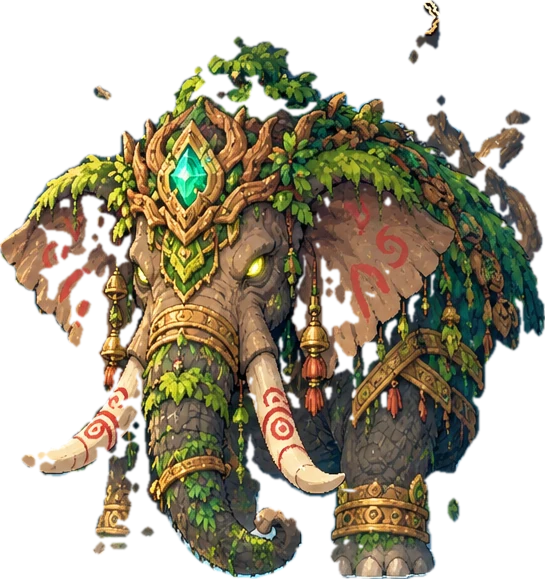
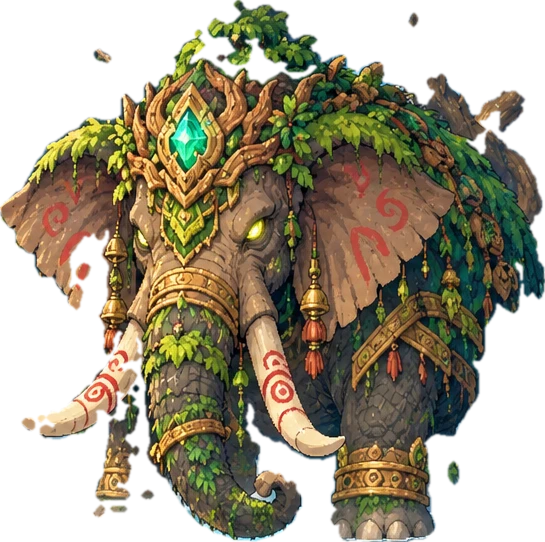
Legenda: no smears around the bosses
The backdrop under each boss, and the places the live HUD covers, were filled with a flat blur,
which showed wherever the boss cut-out had a gap. They are now filled with new scenery built
from the rest of the painting (shift-map inpainting, blended with Poisson cloning, never copying
the title plate or minimap). The boss masks are closed and filled so the sprite shows the
painting's own pixels, and fragments of the painted boss bar, name and compass are removed.
layout.ts is regenerated for the cleaned boss boxes.

diff --git a/live/web/src/lib/games/legenda/layout.ts b/live/web/src/lib/games/legenda/layout.ts
@@ -25,9 +25,9 @@ const box = (x: number, y: number, w: number, h: number): Box => ({ x, y, w, h }
 
 // The order is chini, lupar, larut, kancil, ledang.
 export const FIELDS: Field[] = [
-	{ ar: 1536 / 864, boss: box(0.6439, 0.0984, 0.2943, 0.5289), minA: box(0.1204, 0.5347, 0.0658, 0.0984), minB: box(0.3092, 0.7269, 0.0618, 0.1053), hero: { x: 0.2669, y: 0.7141 }, hearts: box(0.1628, 0.0208, 0.1576, 0.0556), panel: box(0.6367, 0.0185, 0.2305, 0.1227), dock: box(0.6693, 0.8542, 0.2956, 0.1319) },
-	{ ar: 1536 / 1024, boss: box(0.6439, 0.1982, 0.3561, 0.4395), minA: box(0.0625, 0.4521, 0.0645, 0.0820), minB: box(0.2142, 0.6016, 0.0651, 0.0898), hero: { x: 0.1826, y: 0.5928 }, hearts: box(0.1641, 0.0176, 0.1680, 0.0586), panel: box(0.6432, 0.0078, 0.2259, 0.1172), dock: box(0.6562, 0.8574, 0.3125, 0.1230) },
-	{ ar: 1536 / 1024, boss: box(0.5807, 0.0811, 0.3548, 0.5654), minA: box(0.0977, 0.4434, 0.0697, 0.0986), minB: box(0.3229, 0.5752, 0.0703, 0.0898), hero: { x: 0.2474, y: 0.6104 }, hearts: box(0.1641, 0.0176, 0.1680, 0.0586), panel: box(0.6432, 0.0117, 0.2292, 0.1074), dock: box(0.6641, 0.8574, 0.2995, 0.1152) },
-	{ ar: 1536 / 1024, boss: box(0.6094, 0.0293, 0.3451, 0.5645), minA: box(0.1055, 0.4619, 0.0703, 0.0967), minB: box(0.2988, 0.6191, 0.0729, 0.0977), hero: { x: 0.2526, y: 0.6182 }, hearts: box(0.1641, 0.0176, 0.1680, 0.0586), panel: box(0.6348, 0.0156, 0.2344, 0.1113), dock: box(0.6628, 0.8633, 0.3034, 0.1172) },
-	{ ar: 1536 / 1024, boss: box(0.5938, 0.0078, 0.4062, 0.5518), minA: box(0.1107, 0.4316, 0.0605, 0.0908), minB: box(0.1413, 0.6104, 0.0716, 0.0898), hero: { x: 0.2399, y: 0.5908 }, hearts: box(0.1641, 0.0176, 0.1680, 0.0586), panel: box(0.6237, 0.0078, 0.2344, 0.1133), dock: box(0.6589, 0.8555, 0.3086, 0.1250) }
+	{ ar: 1536 / 864, boss: box(0.6439, 0.1389, 0.2943, 0.4884), minA: box(0.1204, 0.5347, 0.0658, 0.0984), minB: box(0.3092, 0.7269, 0.0618, 0.1053), hero: { x: 0.2669, y: 0.7141 }, hearts: box(0.1628, 0.0208, 0.1576, 0.0556), panel: box(0.6367, 0.0185, 0.2305, 0.1227), dock: box(0.6693, 0.8542, 0.2956, 0.1319) },
+	{ ar: 1536 / 1024, boss: box(0.6439, 0.1982, 0.3555, 0.4395), minA: box(0.0625, 0.4521, 0.0645, 0.0820), minB: box(0.2142, 0.6016, 0.0651, 0.0898), hero: { x: 0.1826, y: 0.5928 }, hearts: box(0.1641, 0.0176, 0.1680, 0.0586), panel: box(0.6432, 0.0078, 0.2259, 0.1172), dock: box(0.6562, 0.8574, 0.3125, 0.1230) },
+	{ ar: 1536 / 1024, boss: box(0.5807, 0.1172, 0.3548, 0.5293), minA: box(0.0977, 0.4434, 0.0697, 0.0986), minB: box(0.3229, 0.5752, 0.0703, 0.0898), hero: { x: 0.2474, y: 0.6104 }, hearts: box(0.1641, 0.0176, 0.1680, 0.0586), panel: box(0.6432, 0.0117, 0.2292, 0.1074), dock: box(0.6641, 0.8574, 0.2995, 0.1152) },
+	{ ar: 1536 / 1024, boss: box(0.6094, 0.1211, 0.3451, 0.4727), minA: box(0.1055, 0.4619, 0.0703, 0.0967), minB: box(0.2988, 0.6191, 0.0729, 0.0977), hero: { x: 0.2526, y: 0.6182 }, hearts: box(0.1641, 0.0176, 0.1680, 0.0586), panel: box(0.6348, 0.0156, 0.2344, 0.1113), dock: box(0.6628, 0.8633, 0.3034, 0.1172) },
+	{ ar: 1536 / 1024, boss: box(0.5938, 0.1221, 0.4056, 0.4375), minA: box(0.1107, 0.4316, 0.0605, 0.0908), minB: box(0.1413, 0.6104, 0.0716, 0.0898), hero: { x: 0.2399, y: 0.5908 }, hearts: box(0.1641, 0.0176, 0.1680, 0.0586), panel: box(0.6237, 0.0078, 0.2344, 0.1133), dock: box(0.6589, 0.8555, 0.3086, 0.1250) }
 ];

diff --git a/live/web/scripts/story_assets.py b/live/web/scripts/story_assets.py
@@ -160,6 +160,31 @@ def soft_fill(arr: np.ndarray, mask: np.ndarray, sigma: float) -> np.ndarray:
     return result
 
 
+def shift_fill(img: np.ndarray, hole: np.ndarray, protect: np.ndarray | None = None, scale: float = 0.5) -> np.ndarray:
+    """Fills `hole` with new scenery built from the rest of the painting (OpenCV's shift-map inpainting,
+    run at `scale`), so what shows through a gap around a cut-out is water, stone and leaves, not a flat
+    smear. The new scenery is blended in with Poisson cloning, so its colours meet the painting without a
+    seam. `protect` marks painted parts that stay (the title plate, the minimap): the scenery is not
+    allowed to copy from them. Falls back to the blur when OpenCV has no xphoto."""
+    if not hasattr(cv2, "xphoto"):
+        return soft_fill(img.astype(np.float32), hole.astype(np.uint8) * 255, 40)
+    h, w = hole.shape
+    banned = hole if protect is None else (hole | protect)
+    small = cv2.resize(img, None, fx=scale, fy=scale, interpolation=cv2.INTER_AREA)
+    holes = cv2.resize(banned.astype(np.uint8) * 255, (small.shape[1], small.shape[0]), interpolation=cv2.INTER_NEAREST)
+    filled = np.zeros_like(small)
+    cv2.xphoto.inpaint(small, (holes == 0).astype(np.uint8) * 255, filled, cv2.xphoto.INPAINT_SHIFTMAP)
+    big = cv2.resize(filled, (w, h), interpolation=cv2.INTER_CUBIC)
+    pad = 16
+    dst = cv2.copyMakeBorder(img, pad, pad, pad, pad, cv2.BORDER_REFLECT)
+    src = cv2.copyMakeBorder(big, pad, pad, pad, pad, cv2.BORDER_REFLECT)
+    mask = np.zeros(dst.shape[:2], np.uint8)
+    mask[pad:pad + h, pad:pad + w] = hole.astype(np.uint8) * 255
+    x, y, bw, bh = cv2.boundingRect(mask)
+    merged = cv2.seamlessClone(src, dst, mask, (x + bw // 2, y + bh // 2), cv2.NORMAL_CLONE)
+    return merged[pad:pad + h, pad:pad + w]
+
+
 def sam_session():
     try:
         from rembg import new_session, remove
@@ -270,6 +295,19 @@ def battlefields() -> None:
         masks = field_masks(key, im)
         if "clip_below" in spec:  # the segmentation leaked into the stone arena under the boss
             masks["boss"][spec["clip_below"]:, :] = False
+        # a boss with holes in it shows the backdrop through them: close the small ones
+        masks["boss"] = ndimage.binary_fill_holes(ndimage.binary_closing(masks["boss"], iterations=3))
+        # pieces of the painted boss name and bar, the compass and the title plate that SAM took along: small
+        # pieces whose middle lies in one of those places are not the boss
+        labels, count = ndimage.label(masks["boss"])
+        if count > 1:
+            sizes = ndimage.sum(masks["boss"], labels, range(1, count + 1))
+            ui_places = [spec["panel"], spec["hearts"], (1320, 0, labels.shape[1], 222), (0, 0, 252, 104)]
+            for i, centre in enumerate(ndimage.center_of_mass(masks["boss"], labels, range(1, count + 1))):
+                cy, cx = centre
+                if sizes[i] < sizes.max() * 0.05 and any(x0 <= cx <= x1 and y0 <= cy <= y1 for x0, y0, x1, y1 in ui_places):
+                    masks["boss"][labels == i + 1] = False
+
 
         # the small enemies' painted health bars are not part of the enemy
         for who in ("minA", "minB"):
@@ -291,11 +329,6 @@ def battlefields() -> None:
         # the field: everything that moves or is live is filled with the colours around it
         out = arr.copy()
 
-        def fill(region: np.ndarray, sigma: float, soften: float) -> None:
-            nonlocal out
-            blend = cv2.GaussianBlur(region.astype(np.uint8) * 255, (0, 0), soften)[:, :, None] / 255.0
-            out = out * (1 - blend) + soft_fill(out, region.astype(np.uint8) * 255, sigma) * blend
-
         # SAM misses parts of the small characters (red clothes, the sword tip) and their health bars have
         # outlines: take out a generous box around each instead of only the mask, and cover it with a patch
         # of the same painting
@@ -312,12 +345,17 @@ def battlefields() -> None:
             hx0, hy0, hx1, hy1 = spec[name]
             keep_away[hy0:hy1, hx0:hx1] = True
         out = patch_fill(np.clip(out, 0, 255).astype(np.uint8), boxes, keep_away).astype(np.float32)
-        fill(ndimage.binary_dilation(masks["boss"], iterations=3), 40, 3)
-        rects = np.zeros(masks["boss"].shape, bool)
+        # the boss's place and the parts drawn live (hearts, boss panel, element row) become new scenery
+        # built from the rest of the painting, so nothing flat shows if the boss moves or has a gap
+        gone = ndimage.binary_dilation(masks["boss"], iterations=8)
         for name in ("hearts", "panel", "dock"):
             x0, y0, x1, y1 = spec[name]
-            rects[y0:y1, x0:x1] = True
-        fill(rects, 14, 6)
+            gone[y0:y1, x0:x1] = True
+        painted = np.zeros_like(gone)  # the title plate and the minimap stay as painted
+        painted[0:104, 0:252] = True
+        painted[0:222, 1320:] = True
+        painted &= ~gone
+        out = shift_fill(np.clip(out, 0, 255).astype(np.uint8), gone, painted).astype(np.float32)
         field = Image.fromarray(np.clip(out, 0, 255).astype(np.uint8))
         field_out = save_webp(field, OUT / "worlds" / key / "field.webp", 88)
         note(field_out, rel(src), "supplied battlefield painting with its boss, small characters, hearts, boss "
